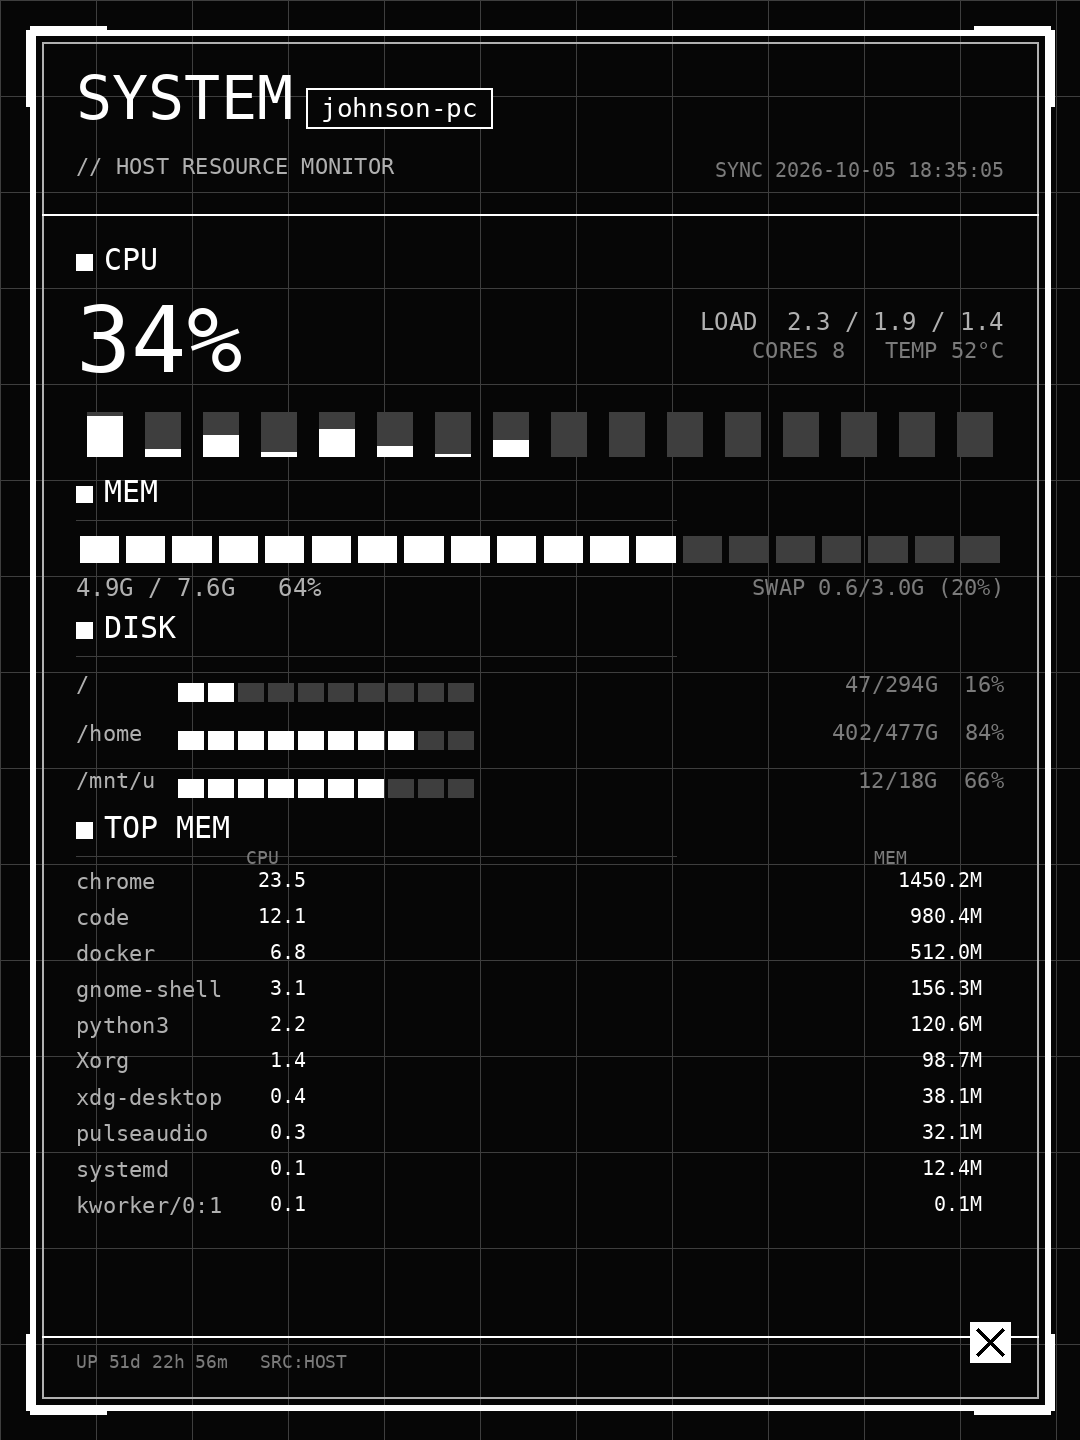
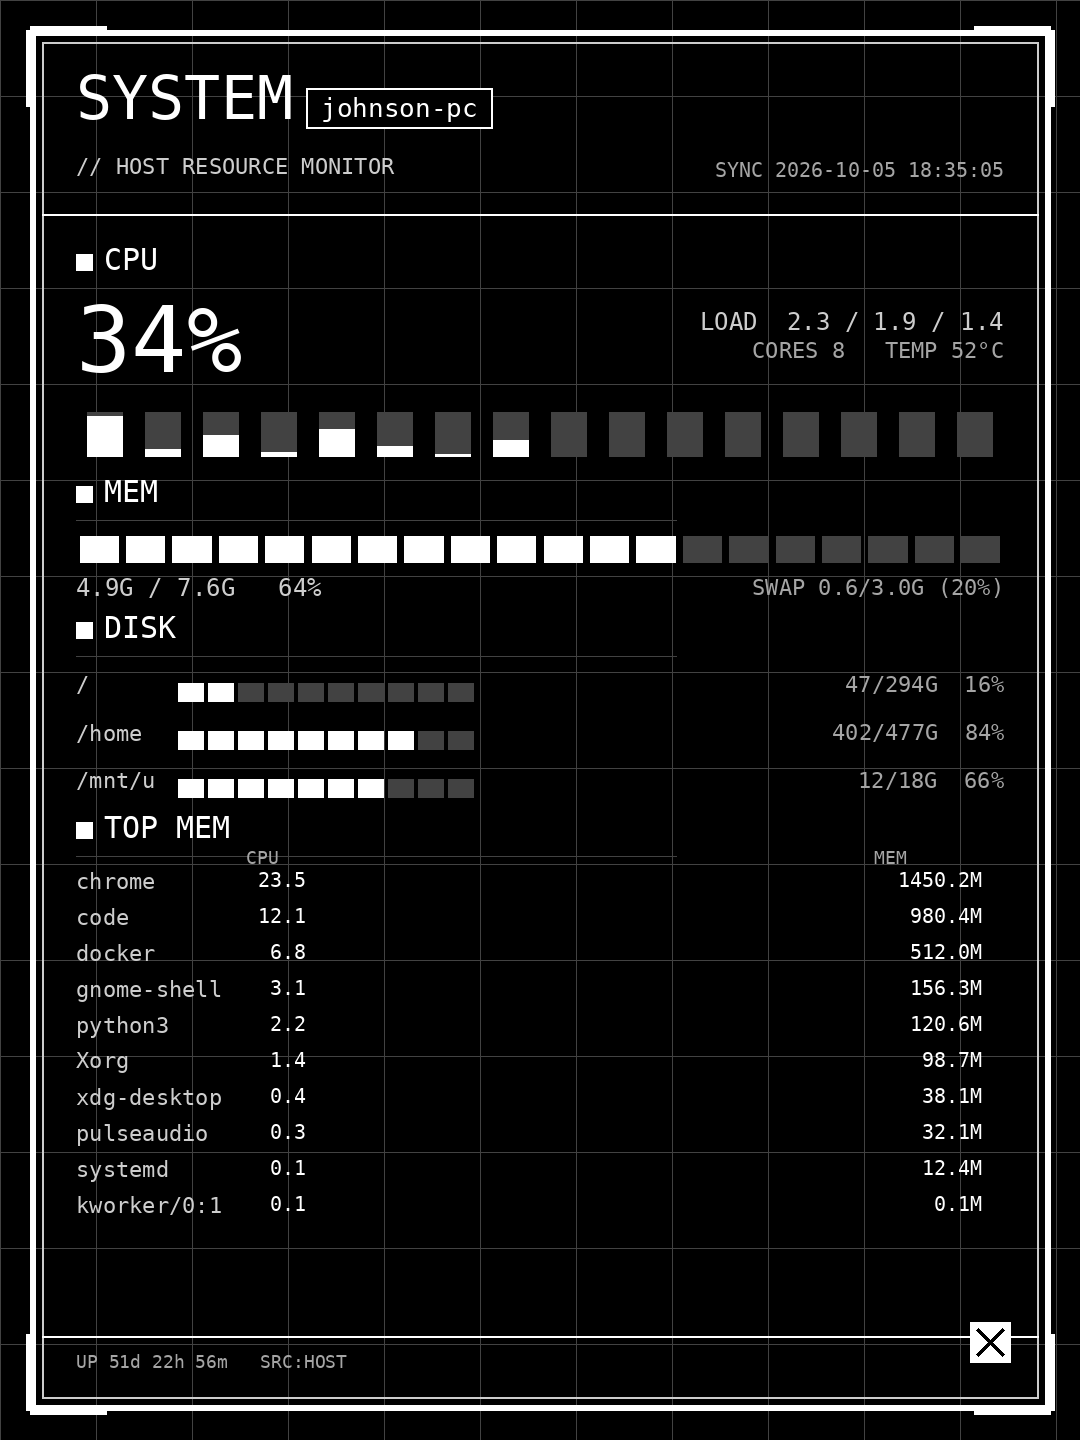
Palettes: e-ink contrast boost
Mid-gray secondary text (MGRAY=128 on white ~= 2.8:1) rendered as faint
halftone mush on a real e-ink panel. Both mono palettes now use pure
endpoints (black on white / white on black) and secondaries pushed to
>=7:1 contrast (light: LGRAY 45 / MGRAY 85; dark: LGRAY 205 / MGRAY 165).
Verified by pixel-measuring the rendered 600x800 board.

diff --git a/res_cover.py b/res_cover.py
@@ -77,18 +77,22 @@ def _font(size):
 # ---- palettes (same semantics as the original cover_gen.py) ---------------
 
 def _mono_palette():
+    # dark theme: grays pushed toward white -- secondary text at 120/168
+    # turned into faint halftone mush on a real e-ink panel
     return {
-        "BG": (16, 16, 16), "WHITE": (238, 238, 238), "LGRAY": (168, 168, 168),
-        "MGRAY": (120, 120, 120), "DGRAY": (66, 66, 66), "DARK": (14, 14, 14),
-        "INK": (10, 10, 10),
+        "BG": (0, 0, 0), "WHITE": (255, 255, 255), "LGRAY": (205, 205, 205),
+        "MGRAY": (165, 165, 165), "DGRAY": (66, 66, 66), "DARK": (0, 0, 0),
+        "INK": (0, 0, 0),
     }
 
 
 def _mono_palette_inverted():
+    # light theme: text near-black on pure white; MGRAY 128 -> 85 because
+    # mid-gray reads as ~2.8:1 contrast, illegible on e-ink
     return {
-        "BG": (247, 247, 247), "WHITE": (12, 12, 12), "LGRAY": (78, 78, 78),
-        "MGRAY": (128, 128, 128), "DGRAY": (186, 186, 186),
-        "DARK": (238, 238, 238), "INK": (250, 250, 250),
+        "BG": (255, 255, 255), "WHITE": (0, 0, 0), "LGRAY": (45, 45, 45),
+        "MGRAY": (85, 85, 85), "DGRAY": (186, 186, 186),
+        "DARK": (235, 235, 235), "INK": (255, 255, 255),
     }
 
 
